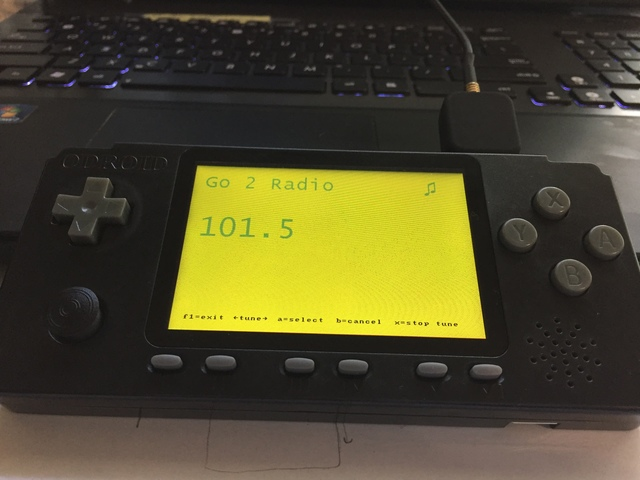
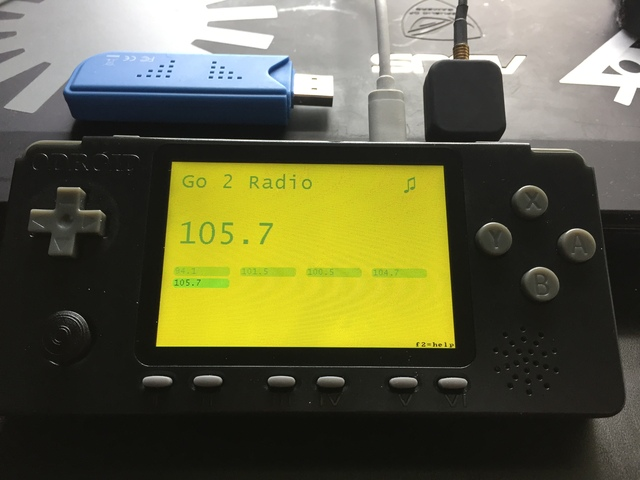
Adds bookmarks.

diff --git a/main.cpp b/main.cpp
@@ -12,6 +12,7 @@ namespace fs = std::filesystem::__cxx11;
 
 #include "lib/ugui/ugui.h"
 #include "Config.h"
+#include "StationBookmarks.h"
 
 void initGo2();
 void destroyGo2();
@@ -23,6 +24,9 @@ void tuneRadio(int freq);
 void killRadio();
 void volumeUp();
 void volumeDown();
+void alterBookmarks();
+void tempNextBookmark();
+void tempPrevBookmark();
 
 // libgo2 stuff
 go2_gamepad_state_t outGamepadState;
@@ -39,6 +43,7 @@ int bytes_per_pixel;
 // ugui stuff
 UG_GUI gui;
 UG_WINDOW mainWindow;
+bool show_help = false;
 
 bool dirty_display = true;
 int frequency;
@@ -58,17 +63,27 @@ pid_t fm_pid = -1;
 
 // Configuration
 Config config = Config("");
+StationBookmarks bmarks = StationBookmarks("");
+
 
 int main(int argc, char * argv[]) {
 	char dir[1024];
 	sprintf(dir, "%s/.go2radio/config", std::getenv("HOME"));
 	config.file_path = std::string(dir);
+
+	sprintf(dir, "%s/.go2radio/stations", std::getenv("HOME"));
+	bmarks.file_path = std::string(dir);
+
 	system("mkdir -p ~/.go2radio");
 	if (!config.load()) {
 		// If it doesn't exist create it.
 		config.save();
 	}
 	config.print_config();
+
+	if (!bmarks.load()) {
+		std::cout << "No saved bookmarks found: " << bmarks.file_path << std::endl;
+	}
 
 	if (config.softfm_path.find('/') != 0) {
 		// It's a relative path, turn into absolute.
@@ -138,12 +153,6 @@ int main(int argc, char * argv[]) {
 				idle_since = current_press;
 			}
 
-			if (held_since != -1 && current_press != last_press) {
-				// No buttons held
-				held_since = -1;
-				//tuneRadio(frequency);
-				// std::cout << "held since reset c(" << current_press << ") l(" << last_press << ")" << std::endl;
-			}
 
 			if (outGamepadState.buttons.a) {
 				if (! (frequency == frequency_temp && -1 != fm_pid)) {
@@ -166,6 +175,56 @@ int main(int argc, char * argv[]) {
 				dirty_display = true;
 				last_press = current_press;
 				idle_since = current_press;
+			}
+			if (outGamepadState.buttons.y) {
+				if (-1 == held_since) {
+					alterBookmarks();
+					dirty_display = true;
+					held_since = current_press;
+				}
+				
+				last_press = current_press;
+				idle_since = current_press;
+			}
+
+			if (outGamepadState.buttons.top_left) {
+				if (-1 == held_since) {
+					tempPrevBookmark();
+					dirty_display = true;
+					held_since = current_press;
+				}
+				
+				last_press = current_press;
+				idle_since = current_press;
+			}
+
+			if (outGamepadState.buttons.top_right) {
+				if (-1 == held_since) {
+					tempNextBookmark();
+					dirty_display = true;
+					held_since = current_press;
+				}
+				
+				last_press = current_press;
+				idle_since = current_press;
+			}
+
+			if (outGamepadState.buttons.f2) {
+				if (-1 == held_since) {
+					show_help = !show_help;
+					dirty_display = true;
+					held_since = current_press;
+				}
+				
+				last_press = current_press;
+				idle_since = current_press;
+			}
+
+			if (held_since != -1 && current_press != last_press) {
+				// No buttons held
+				held_since = -1;
+				//tuneRadio(frequency);
+				// std::cout << "held since reset c(" << current_press << ") l(" << last_press << ")" << std::endl;
 			}
 		}
 		if (double(clock() - idle_since) / double(CLOCKS_PER_SEC) > config.idle_time) {
@@ -340,22 +399,67 @@ void drawScreen() {
 		UG_PutString(height-36 - strlen(music)*36, 20, music);
 	}
 
+	// Draw bookmarks
+	// std::cout << "Number of stations: " << bmarks.size() << std::endl;
+	int startx = 20;
+	int starty = width/2 + 30;
+
+	UG_FontSelect(&FONT_8X14);
+	UG_COLOR bg;
+	UG_COLOR fg;
+	for (int i = 0; i < bmarks.size(); ++i) {
+		int b_freq = bmarks.get(i);
+		if (frequency_temp == b_freq) {
+			fg = C_BLACK;
+			bg = C_OLIVE_DRAB;
+		} else {
+			fg = C_DARK_OLIVE_GREEN;
+			bg = C_OLIVE;
+		}
+		UG_SetForecolor(fg);
+		UG_SetBackcolor(bg);
+		format_frequency(bmarks.get(i), (char *)freq);
+		int row = i / 4;
+		int col = i - row * 4;
+		int curx = col * 110 + startx;
+		int cury = row * 20 + starty;
+		// std::cout << "Printing (" << col << "," << row << "): " << freq << std::endl;
+		UG_FillRoundFrame(curx - 2, cury - 1, curx + 90, cury + 14, 5, bg);
+		UG_PutString(curx, cury, freq);
+	}
+
 	UG_FontSelect(&FONT_8X8);
 	UG_SetForecolor(C_BLACK);
-	char exit[] = "f1=exit";
-	UG_PutString(20, width-28, exit);
+	UG_SetBackcolor(C_DARK_GOLDEN_ROD);	
 
-	char volText[8];
-	sprintf(volText, " %cvol", char(18));
-	UG_PutString(40 + strlen(exit) * 8, width-38, volText);
+	char helpText[] = "f2=help";
+	UG_PutString(height - strlen(helpText) * 9, width-9, helpText);
 
-	char tuneText[8];
-	sprintf(tuneText, "%ctune%c", char(27), char(26));
-	// std::cout << "! = " << int('!') << std::endl;
-	UG_PutString(40 + strlen(exit) * 8, width-28, tuneText);
+	if (show_help) {
+		UG_FontSelect(&FONT_8X8);
+		UG_SetForecolor(C_BLACK);
+		UG_SetBackcolor(C_DARK_GOLDEN_ROD);
+		char exit[] = "f1=exit";
+		UG_PutString(20, width-28, exit);
 
-	char selectText[] = "a=select  b=cancel  x=stop tune";
-	UG_PutString(60 + (strlen(exit) + strlen(tuneText)) * 8, width-28, selectText);
+		char volText[8];
+		sprintf(volText, " %cvol", char(18));
+		UG_PutString(40 + strlen(exit) * 8, width-38, volText);
+
+		char tuneText[8];
+		sprintf(tuneText, "%ctune%c", char(27), char(26));
+		// std::cout << "! = " << int('!') << std::endl;
+		UG_PutString(40 + strlen(exit) * 8, width-28, tuneText);
+
+		char selectText[] = "a=select  b=cancel  x=stop tune";
+		UG_PutString(60 + (strlen(exit) + strlen(tuneText)) * 8, width-28, selectText);
+
+		if (bmarks.size() > 0) {
+			char bookmarkText[65];
+			sprintf(bookmarkText, "bookmarks: %cleft trigger,right trigger%c,y=add/remove", char(27), char(26));
+			UG_PutString(0, width - 48, bookmarkText);
+		}
+	}
 }
 
 void initUgui() {
@@ -366,4 +470,28 @@ void initUgui() {
 
 void destroyUgui() {
 
+}
+
+void alterBookmarks() {
+	if (bmarks.isMarked(frequency)) {
+		bmarks.remove(frequency);
+		bmarks.save();
+	} else {
+		bmarks.add(frequency);
+		bmarks.save();
+	}
+}
+
+void tempNextBookmark() { 
+	int tmp = bmarks.next(frequency_temp);
+	if (-1 != tmp) {
+		frequency_temp = tmp;
+	}
+}
+
+void tempPrevBookmark() {
+	int tmp = bmarks.prev(frequency_temp);
+	if (-1 != tmp) {
+		frequency_temp = tmp;
+	}
 }

diff --git a/StationBookmarks.cpp b/StationBookmarks.cpp
@@ -1,0 +1,129 @@
+#include <iostream>
+#include <fstream>
+
+#include "StationBookmarks.h"
+
+
+StationBookmarks::StationBookmarks(std::string file) {
+	this->file_path = file;
+};
+StationBookmarks::~StationBookmarks() {
+
+};
+
+bool StationBookmarks::isMarked(int bmark) {
+	int idx = this->indexOf(bmark);
+	if (-1 != idx) {
+		return true;
+	} else {
+		return false;
+	}
+};
+
+void StationBookmarks::add(int bmark) {
+	if (this->isMarked(bmark)) {
+		return; // don't add it again.
+	}
+
+	this->bookmarks.push_back(bmark);
+};
+void StationBookmarks::remove(int bmark) {
+	int idx = this->indexOf(bmark);
+	if (-1 != idx) {
+		this->bookmarks.erase(this->bookmarks.begin() + idx);
+	}
+};
+
+int StationBookmarks::size() {
+	return this->bookmarks.size();
+};
+
+int StationBookmarks::indexOf(int bmark) {
+	for (int i = 0; i < this->bookmarks.size(); ++i) {
+		if (this->bookmarks[i] == bmark) {
+			return i;
+		}
+	}
+	return -1;
+};
+
+int StationBookmarks::get(int idx) {
+	return this->bookmarks[idx];
+};
+
+int StationBookmarks::next(int bmark) {
+	int idx = this->indexOf(bmark);
+	if (-1 == idx) {
+		// find closest
+		int shortest_dist = -1;
+		int shortest_mark = -1;
+		for (int i = 0; i < this->bookmarks.size(); ++i) {
+			int cur_dist = abs(this->bookmarks[i] - bmark);
+			if (cur_dist < shortest_dist || shortest_mark == -1) {
+				shortest_mark = this->bookmarks[i];
+				shortest_dist = cur_dist;
+			}
+		}
+
+		return shortest_mark;
+	}
+
+	++idx;
+	if (idx >= this->bookmarks.size()) {
+		idx = 0; // wrap around
+	}
+	return this->bookmarks[idx];
+};
+int StationBookmarks::prev(int bmark) {
+	int idx = this->indexOf(bmark);
+	if (-1 == idx) {
+		// find closest
+		int shortest_dist = -1;
+		int shortest_mark = -1;
+		for (int i = 0; i < this->bookmarks.size(); ++i) {
+			int cur_dist = abs(this->bookmarks[i] - bmark);
+			if (cur_dist < shortest_dist || shortest_mark == -1) {
+				shortest_mark = this->bookmarks[i];
+				shortest_dist = cur_dist;
+			}
+		}
+
+		return shortest_mark;
+	}
+	
+	--idx;
+	if (idx < 0) {
+		idx = this->bookmarks.size() - 1; // wrap around
+	}
+
+	return this->bookmarks[idx];
+};
+
+void StationBookmarks::save() {
+	std::ofstream bmarksFile;
+	bmarksFile.open(this->file_path);
+
+	for (int i = 0; i < this->size(); ++i) {
+		bmarksFile << this->get(i) << std::endl;
+	}
+
+	bmarksFile.close();
+};
+bool StationBookmarks::load() {
+	std::ifstream bmarksFile;
+	bmarksFile.open(this->file_path);
+	if (bmarksFile.fail()) {
+		return false;
+	}
+
+	std::string line;
+	while (std::getline(bmarksFile, line)) {
+		this->add(std::stoi(line));
+	}
+	bmarksFile.close();
+
+	return true;
+};
+
+// std::vector<int> bookmarks;
+// std::string file_path;

diff --git a/StationBookmarks.h b/StationBookmarks.h
@@ -1,0 +1,27 @@
+#pragma once
+
+#include <vector>
+#include <string>
+
+class StationBookmarks {
+public:
+	std::string file_path;
+
+	StationBookmarks(std::string file);
+	~StationBookmarks();
+
+	bool isMarked(int bmark);
+	void add(int bmark);
+	void remove(int bmark);
+	int size();
+	int indexOf(int bmark);
+	int get(int idx);
+
+	int next(int bmark);
+	int prev(int bmark);
+
+	void save();
+	bool load();
+private:
+	std::vector<int> bookmarks;
+};

diff --git a/README.md b/README.md
@@ -11,7 +11,7 @@ This program should minimally:
 - [X] Show what station is playing.
 - [X] Lower the backlight while idle to reduce battery use.
 - [X] Read/Write a configuration file to alter running behavior.
-- [ ] Allow presets/bookmarks to be jumped to and added/deleted to make navigating frequencies easier.
+- [X] Allow presets/bookmarks to be jumped to and added/deleted to make navigating frequencies easier.
 
 ![Go 2 Radio](/docs/go2radio_web.jpg)
 
